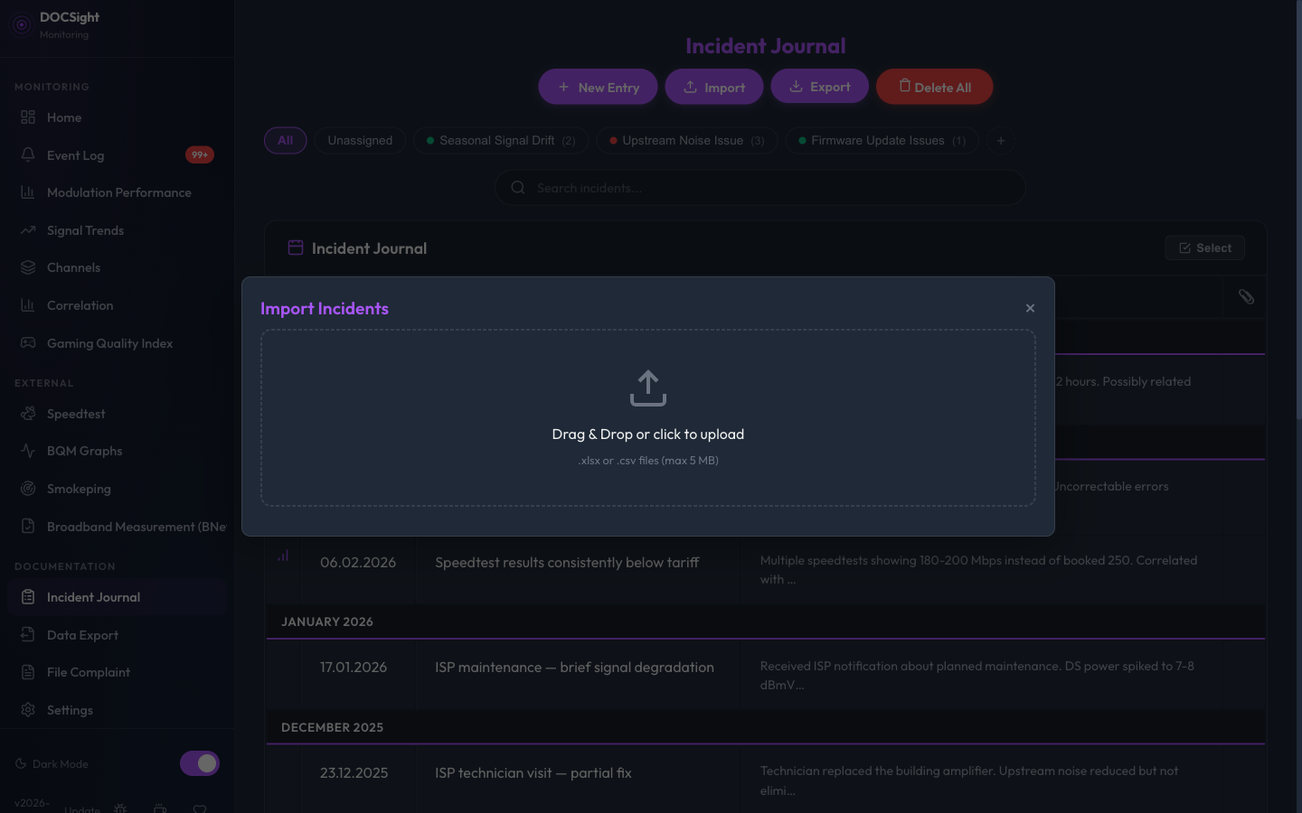
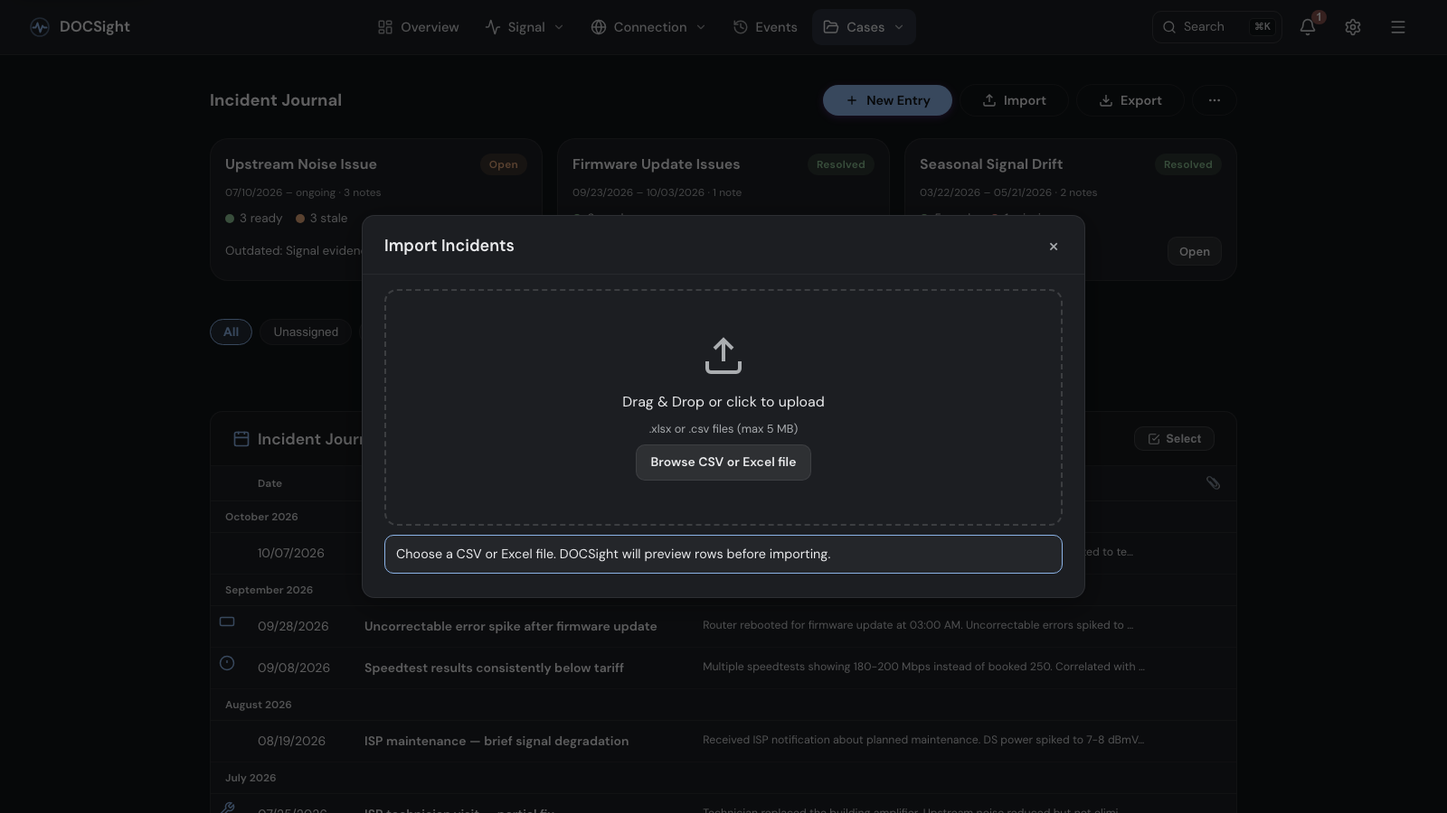
Refresh the README, screenshots and product page, and remove stale files

diff --git a/docs/index.html b/docs/index.html
@@ -67,7 +67,7 @@
       gap: 24px;
     }
     .brand { display: flex; align-items: center; gap: 12px; font-weight: 800; letter-spacing: -0.03em; text-decoration: none; }
-    .brand img { width: 38px; height: 38px; }
+    .brand svg { width: 38px; height: 38px; flex: none; }
     .nav-links { display: flex; flex-wrap: wrap; gap: 14px; align-items: center; justify-content: flex-end; color: var(--muted); font-size: 0.94rem; }
     .nav-links a { text-decoration: none; }
     .nav-links a:hover { color: var(--text); }
@@ -175,7 +175,7 @@
   <nav class="nav" aria-label="Main navigation">
     <div class="wrap nav-inner">
       <a class="brand" href="#top" aria-label="DOCSight home">
-        <img src="docsight-logo-v2.svg" alt="" aria-hidden="true">
+        <svg viewBox="0 0 24 24" width="38" height="38" fill="none" stroke="#7c3aed" stroke-linecap="round" stroke-linejoin="round" aria-hidden="true"><circle cx="12" cy="12" r="10" stroke-width="1.6" opacity="0.45"/><path d="M4.5 12.5h3l2-5 3 10 2.5-7 1.5 2h3" stroke-width="1.9"/></svg>
         <span>DOCSight</span>
       </a>
       <div class="nav-links">
@@ -219,7 +219,7 @@
             <li>Local data</li>
             <li>Demo mode</li>
             <li>Reports</li>
-            <li>22 modem families, including experimental PYUR FAST3896-15 support on the main branch with <a href="https://github.com/itsDNNS/docsight/issues/865">login, collection and one-day operation confirmed by the reporter</a></li>
+            <li>22 modem families, including experimental PYUR FAST3896-15 support with <a href="https://github.com/itsDNNS/docsight/issues/865">login, collection and one-day operation confirmed by the reporter</a></li>
             <li>MIT licensed</li>
           </ul>
           <div class="trust-promise" aria-label="Local-first trust promise">
@@ -231,9 +231,9 @@
         </div>
         <div class="hero-shot">
           <div class="screenshot-card">
-            <img src="screenshots/dashboard-hero.png" alt="DOCSight product dashboard with signal health, speed, latency and connection cards">
+            <img src="screenshots/dashboard-hero.png" alt="DOCSight Home with the line status per channel, key figures and the latest speed test">
           </div>
-          <p class="caption">Synthetic demo data in the sidebar layout of tagged releases up to v2026-09-16.1: signal health, speed, latency and connection context in one dashboard.</p>
+          <p class="caption">The real interface with synthetic demo data: line status, key figures and the latest events on one page.</p>
         </div>
       </div>
     </header>
@@ -276,19 +276,19 @@
             <div class="copy"><h3>Bring something useful to support</h3><p>Turn the timeline into a report, checklist and support-ready evidence package.</p></div>
           </article>
         </div>
-        <p class="caption">Screenshots show synthetic demo data in the sidebar layout of tagged releases up to v2026-09-16.1.</p>
+        <p class="caption">Screenshots show the real interface with synthetic demo data.</p>
       </div>
     </section>
 
     <section id="proof" aria-labelledby="proof-title">
       <div class="wrap proof">
         <div class="screenshot-card">
-          <img src="screenshots/bad-day-evidence.png" alt="Demo bad evening evidence timeline with degraded signal and event context">
+          <img src="screenshots/bad-day-evidence.png" alt="Correlation for a past day with an SNR drop, uncorrectable errors and a critical signal state">
         </div>
         <div class="proof-copy">
           <div class="eyebrow">Demo-safe proof pack</div>
           <h2 id="proof-title">See the output before you connect real hardware.</h2>
-          <p>The sample uses synthetic data. It shows what a bad evening can look like without exposing a real provider, IP address, MAC address, serial number or customer data.</p>
+          <p>The sample uses synthetic data. It shows what a bad day can look like without exposing a real provider, IP address, MAC address, serial number or customer data.</p>
           <ul class="proof-list">
             <li>Bad evening screenshot with signal, speed, packet loss, events and notes</li>
             <li>Germany-oriented sample complaint report PDF</li>

diff --git a/README.md b/README.md
@@ -1,262 +1,99 @@
 <p align="center">
-  <img src="docs/docsight-logo-v2.svg" alt="DOCSight" width="128">
+  <img src="app/static/logo.svg" alt="DOCSight" width="96">
 </p>
 
 <h1 align="center">DOCSight</h1>
 
 <p align="center">
+  <strong>Your ISP says everything is fine. DOCSight shows the timeline.</strong>
+</p>
+
+<p align="center">
+  Self-hosted monitoring for your internet connection. DOCSight keeps DOCSIS signal history, speed tests, latency, events and notes together, so you can find out what is wrong and prove it to your provider.
+</p>
+
+<p align="center">
+  <a href="#get-started">Get started</a>&nbsp;&nbsp;&bull;&nbsp;&nbsp;
   <a href="https://itsdnns.github.io/docsight/">Product page</a>&nbsp;&nbsp;&bull;&nbsp;&nbsp;
-  <a href="#get-started">Get Started</a>&nbsp;&nbsp;&bull;&nbsp;&nbsp;
-  <a href="https://github.com/itsDNNS/docsight/releases/latest">Windows Preview</a>&nbsp;&nbsp;&bull;&nbsp;&nbsp;
-  <a href="#supported-hardware">Supported Hardware</a>&nbsp;&nbsp;&bull;&nbsp;&nbsp;
   <a href="https://github.com/itsDNNS/docsight/wiki">Wiki</a>&nbsp;&nbsp;&bull;&nbsp;&nbsp;
-  <a href="DATA_CONTRACT.md">Data contract</a>&nbsp;&nbsp;&bull;&nbsp;&nbsp;
-  <a href="CODE_SIGNING.md">Code signing</a>&nbsp;&nbsp;&bull;&nbsp;&nbsp;
-  <a href="https://github.com/itsDNNS/docsight/releases">Releases</a>
+  <a href="#supported-hardware">Supported hardware</a>&nbsp;&nbsp;&bull;&nbsp;&nbsp;
+  <a href="https://github.com/itsDNNS/docsight/releases">Releases</a>&nbsp;&nbsp;&bull;&nbsp;&nbsp;
+  <a href="CODE_SIGNING.md">Code signing</a>
 </p>
 
 <p align="center">
   <a href="LICENSE"><img src="https://img.shields.io/github/license/itsDNNS/docsight" alt="License"></a>
-  <a href="https://github.com/itsDNNS/docsight/pkgs/container/docsight"><img src="https://img.shields.io/github/v/tag/itsDNNS/docsight?label=version" alt="Version"></a>
+  <a href="https://github.com/itsDNNS/docsight/releases/latest"><img src="https://img.shields.io/github/v/release/itsDNNS/docsight?label=release" alt="Latest release"></a>
   <a href="https://github.com/itsDNNS/docsight/stargazers"><img src="https://img.shields.io/github/stars/itsDNNS/docsight?style=flat" alt="Stars"></a>
-  <a href="https://github.com/itsDNNS/docsight/pkgs/container/docsight"><img src="https://ghcr-badge.egpl.dev/itsdnns/docsight/size" alt="Image Size"></a>
+  <a href="https://github.com/itsDNNS/docsight/pkgs/container/docsight"><img src="https://ghcr-badge.egpl.dev/itsdnns/docsight/size" alt="Image size"></a>
   <a href="https://selfh.st/weekly/2026-02-27/"><img src="https://img.shields.io/badge/selfh.st-Featured-blue" alt="Featured in selfh.st Weekly"></a>
 </p>
 
-<p align="center">
-  <strong>Local monitoring and diagnostic reports for your internet connection.</strong>
-</p>
+<picture>
+  <source media="(prefers-color-scheme: light)" srcset="docs/screenshots/dashboard-light.png">
+  <img src="docs/screenshots/dashboard-hero.png" alt="DOCSight Home with the line status per channel, key figures and the latest speed test" width="100%">
+</picture>
 
-<p align="center">
-  Keep DOCSIS signal history, speed tests, latency, events, and incident notes together to investigate intermittent problems and share reports with your ISP.
-</p>
+<p align="center"><sub>The real interface with synthetic demo data.</sub></p>
 
-<p align="center">
-  <strong>Self-hosted</strong> • <strong>Local data</strong> • <strong>MIT</strong>
-</p>
+## Get started
 
-<p align="center">
-  <img src="docs/screenshots/dashboard-hero.png" alt="DOCSight product dashboard with signal health, speed, latency and connection cards" width="100%" />
-</p>
-
-<p align="center">
-  <em>Synthetic demo data in the sidebar layout of tagged releases up to v2026-09-16.1: signal health, speed, latency, and connection context in one dashboard.</em>
-</p>
-
----
-
-## Get Started
-
-The commands below require a running Docker engine. For Windows setup, see the [Windows quick start](https://github.com/itsDNNS/docsight/wiki/Windows-Quick-Start). To try DOCSight without Docker, use the unsigned portable [Windows Desktop Preview](https://github.com/itsDNNS/docsight/wiki/Windows-Desktop-Preview); for a native Python installation, see [Running without Docker](https://github.com/itsDNNS/docsight/wiki/Running-without-Docker).
-
-The examples use the `stable` image tag, which follows the newest release. `latest` follows the `main` branch and can include unreleased changes; see [image tags](https://github.com/itsDNNS/docsight/wiki/Installation#image-tags-stable-or-latest).
-
-### Option 1: Try the demo
-
-No router required. Demo mode generates synthetic DOCSIS history so you can explore the app.
+Try the demo, no modem required:
 
 ```bash
 docker run -d --name docsight-demo -p 8765:8765 -e DEMO_MODE=true ghcr.io/itsdnns/docsight:stable
 ```
 
-### Option 2: Connect your own modem or router
+Connect your own modem or router:
 
 ```bash
 docker run -d --name docsight --restart unless-stopped -p 8765:8765 -v docsight_data:/data ghcr.io/itsdnns/docsight:stable
 ```
 
-Open `http://localhost:8765`. For your own connection, follow the setup wizard to select a [supported modem or Generic Router](#supported-hardware). Configuration and history are stored in the `docsight_data` volume.
+Open `http://localhost:8765` and follow the setup. It asks for your connection type, finds the modem on request and tests the connection. Configuration and history stay in the `docsight_data` volume. `stable` follows releases; `latest` follows the `main` branch.
 
-[Windows quick start](https://github.com/itsDNNS/docsight/wiki/Windows-Quick-Start) | [Full installation guide](https://github.com/itsDNNS/docsight/wiki/Installation) | [Example Compose Stacks](https://github.com/itsDNNS/docsight/wiki/Example-Compose-Stacks)
+[Installation guide](https://github.com/itsDNNS/docsight/wiki/Installation) · [Docker Compose](docker-compose.yml) · [Windows quick start](https://github.com/itsDNNS/docsight/wiki/Windows-Quick-Start) · [Windows Desktop Preview](https://github.com/itsDNNS/docsight/wiki/Windows-Desktop-Preview) · [Running without Docker](https://github.com/itsDNNS/docsight/wiki/Running-without-Docker)
 
----
+## Detect, understand, prove
 
-## Evidence journey
-
-A few key views from the workflow:
-
-| See what is happening now | Find the pattern |
+| Find the pattern | Connect the signals |
 |---|---|
-| ![DOCSight dashboard with current signal health, speed, and active issue cards](docs/screenshots/dashboard-dark.png) | ![DOCSight signal trends showing long-term signal patterns](docs/screenshots/trends.png) |
-| Current signal health, speed, latency, and active issues sit in one view. | Review signal changes over time. |
+| ![Signal Trends with target bands for power and SNR and uncorrectable errors per interval](docs/screenshots/trends.png) | ![Correlation with signal, errors, speed tests, segment load and reachability on one timeline](docs/screenshots/correlation.png) |
+| Signal history with target bands. Step back in time, or click a point to open the full snapshot. | Signal, errors, speed tests, segment load and reachability on one timeline. |
 
-| Connect the signals | Bring something useful to support |
+| Collect it in a case | Bring it to your provider |
 |---|---|
-| ![DOCSight correlation view lining up signal, speed, and event history](docs/screenshots/correlation.png) | ![DOCSight evidence package workflow for local report generation](docs/screenshots/complaint-workflow.png) |
-| Signal drops, packet loss, speed dips, modem events, and notes line up in one timeline. | Export a report for a selected incident or time window. |
-
-Screenshots show synthetic demo data in the sidebar layout of tagged releases up to v2026-09-16.1. The `main` branch has a redesigned Home and navigation; see the [Dashboard wiki page](https://github.com/itsDNNS/docsight/wiki/Features-Dashboard).
-
----
-
-## Public proof pack
-
-See the [sample complaint report PDF](docs/samples/demo-complaint-report.pdf) and the [proof pack](https://github.com/itsDNNS/docsight/wiki/Proof-Pack) for an example using synthetic data. Complaint templates and BNetzA workflows focus on Germany; reports do not guarantee an ISP or legal outcome.
-
----
-
-## Your Data Stays With You
-
-Monitoring history and generated reports stay on your own hardware. Optional integrations communicate with the services you configure. Review exports before sharing: they can contain connection details and incident notes.
-
-See the [Data contract](DATA_CONTRACT.md) for storage and sharing boundaries, and the [Security policy](SECURITY.md) for supported versions and vulnerability reporting.
-
----
+| ![Incident Journal with case cards and their evidence state](docs/screenshots/journal.png) | ![Evidence Journey checking which evidence exists for a time window](docs/screenshots/complaint-workflow.png) |
+| Cases gather events, notes and snapshots, and show which evidence is ready. | The Evidence Journey checks a window and builds the report, letter and PDF. |
 
 ## Features
 
-### Core Evidence Workflow
+- **Signal:** [Home with line status](https://github.com/itsDNNS/docsight/wiki/Features-Dashboard), [Signal Trends](https://github.com/itsDNNS/docsight/wiki/Features-Signal-Trends), [Channels and Channel Timeline](https://github.com/itsDNNS/docsight/wiki/Features-Channel-Timeline), [Modulation](https://github.com/itsDNNS/docsight/wiki/Features-Modulation-Performance), [Cable Segment Utilization](https://github.com/itsDNNS/docsight/wiki/Features-Segment-Utilization), [Correlation](https://github.com/itsDNNS/docsight/wiki/Features-Correlation-Analysis)
+- **Connection:** [Connection Monitor](https://github.com/itsDNNS/docsight/wiki/Features-Connection-Monitor) with outages and traceroutes, [Speedtest Tracker](https://github.com/itsDNNS/docsight/wiki/Features-Speedtest), [BQM](https://github.com/itsDNNS/docsight/wiki/Features-BQM), [Smokeping](https://github.com/itsDNNS/docsight/wiki/Features-Smokeping), [Gaming Quality](https://github.com/itsDNNS/docsight/wiki/Features-Gaming-Quality)
+- **Events and cases:** [Event Log](https://github.com/itsDNNS/docsight/wiki/Features-Event-Log), [Incident Journal and cases](https://github.com/itsDNNS/docsight/wiki/Features-Incident-Journal), [Evidence Journey](https://github.com/itsDNNS/docsight/wiki/Features-Evidence-Journey), [Before/After](https://github.com/itsDNNS/docsight/wiki/Features-Before-After-Comparison), [Smart Capture](https://github.com/itsDNNS/docsight/wiki/Features-Smart-Capture), [complaint letters](https://github.com/itsDNNS/docsight/wiki/Filing-a-Complaint), [BNetzA measurements](https://github.com/itsDNNS/docsight/wiki/Features-BNetzA) and [TKG compensation](https://github.com/itsDNNS/docsight/wiki/Features-TKG-Compensation) for Germany
+- **Platform:** [Home Assistant](https://github.com/itsDNNS/docsight/wiki/Home-Assistant), [notifications](https://github.com/itsDNNS/docsight/wiki/Notifications) including browser push, [backup and restore](https://github.com/itsDNNS/docsight/wiki/Backup-and-Restore), [themes](https://github.com/itsDNNS/docsight/wiki/Themes), [community modules](https://github.com/itsDNNS/docsight-modules), [AI export](https://github.com/itsDNNS/docsight/wiki/Features-LLM-Export) with local redaction, 24 languages, installable as an app
 
-| Feature | Why it matters |
-|---|---|
-| **[Live Dashboard](https://github.com/itsDNNS/docsight/wiki/Features-Dashboard)** | See current signal health, active issues, and actionable diagnostics at a glance |
-| **[Signal Trends](https://github.com/itsDNNS/docsight/wiki/Features-Signal-Trends)** | Turn intermittent instability into visible long-term patterns |
-| **[Connection Monitor](https://github.com/itsDNNS/docsight/wiki/Features-Connection-Monitor)** | Track latency, packet loss, outages, traceroute evidence, and raw ping logs continuously |
-| **[Event Log](https://github.com/itsDNNS/docsight/wiki/Features-Event-Log)** | Automatically record anomalies like modulation drops and modem restarts |
-| **[Incident Journal](https://github.com/itsDNNS/docsight/wiki/Features-Incident-Journal)** | Add notes, attachments, reviewed imports, and incident groupings |
-| **Evidence Journey** | Review an incident or custom time window, see ready/stale/missing evidence, and carry that exact fixed period into complaint and PDF generation |
-| **[DE · TKG compensation](https://github.com/itsDNNS/docsight/wiki/Features-TKG-Compensation)** | Check possible compensation for a complete outage or missed provider appointment, calculate a possible amount, and prepare an editable provider letter locally |
-| **[Before/After Comparison](https://github.com/itsDNNS/docsight/wiki/Features-Before-After-Comparison)** | Compare measurements before and after a technician visit or ISP change |
-| **[Correlation Analysis](https://github.com/itsDNNS/docsight/wiki/Features-Correlation-Analysis)** | Combine signal, speed, and event history in one timeline |
-| **[Complaint Generator](https://github.com/itsDNNS/docsight/wiki/Filing-a-Complaint)** | Build ISP-ready evidence packages with letter text, checklist, and PDF output |
+See the [sample complaint report](docs/samples/demo-complaint-report.pdf) and the [proof pack](https://github.com/itsDNNS/docsight/wiki/Proof-Pack) for an example with synthetic data.
 
-### Analysis, Integrations, and Power Features
+## Your data stays with you
 
-| Category | Includes |
-|---|---|
-| **Network analysis** | [Gaming Quality Index](https://github.com/itsDNNS/docsight/wiki/Features-Gaming-Quality), [Modulation Performance](https://github.com/itsDNNS/docsight/wiki/Features-Modulation-Performance), [Channel Timeline](https://github.com/itsDNNS/docsight/wiki/Features-Channel-Timeline), [Cable Segment Utilization](https://github.com/itsDNNS/docsight/wiki/Features-Segment-Utilization) |
-| **External data sources** | Guided setup for [Speedtest Integration](https://github.com/itsDNNS/docsight/wiki/Features-Speedtest), [BQM Integration](https://github.com/itsDNNS/docsight/wiki/Features-BQM), and [Smokeping Integration](https://github.com/itsDNNS/docsight/wiki/Features-Smokeping), plus [Smart Capture](https://github.com/itsDNNS/docsight/wiki/Features-Smart-Capture) and [BNetzA Measurements](https://github.com/itsDNNS/docsight/wiki/Features-BNetzA) |
-| **Platform features** | [Home Assistant](https://github.com/itsDNNS/docsight/wiki/Home-Assistant), [Notifications](https://github.com/itsDNNS/docsight/wiki/Notifications), [Backup & Restore](https://github.com/itsDNNS/docsight/wiki/Backup-and-Restore), setup wizard, optional authentication, API tokens |
-| **Usability and extensibility** | [Demo Mode](https://github.com/itsDNNS/docsight/wiki/Features-Demo-Mode), [Themes](https://github.com/itsDNNS/docsight/wiki/Themes), [Community Modules](https://github.com/itsDNNS/docsight-modules), [In-App Glossary](https://github.com/itsDNNS/docsight/wiki/Features-Glossary), [AI/LLM Export](https://github.com/itsDNNS/docsight/wiki/Features-LLM-Export) with local redaction controls |
+History and reports stay on your own hardware. Optional integrations only talk to the services you configure. Review exports before you share them: they can contain connection details and notes. See the [data contract](DATA_CONTRACT.md) and the [security policy](SECURITY.md).
 
-The core interface supports 24 languages, light/dark themes, and PWA/offline use.
+## Supported hardware
 
----
+DOCSight has drivers for **22 modem families**, among them AVM FRITZ!Box Cable, Vodafone Station (CGA4233, TG3442DE), Sercomm Ultra Hub 7, Connect Box (CH7465), Sagemcom F@st 3896 and F3896LG, [PYUR FAST3896-15](https://github.com/itsDNNS/docsight/wiki/Modem-PYUR-FAST3896-15) (experimental), Technicolor TC4400, Arris SURFboard, Hitron CODA and Netgear CM1000/CM3000. See [supported modems](https://github.com/itsDNNS/docsight/wiki/Supported-Modems) for the full list and setup notes.
 
-## Extended screenshot gallery
+Not on cable? **Generic Router mode** works with fiber, DSL and satellite: speed tests, latency monitoring, notes and reports, without DOCSIS signal data. Community drivers live in [docsight-modules](https://github.com/itsDNNS/docsight-modules); you can also [add your own modem](https://github.com/itsDNNS/docsight/wiki/Adding-Modem-Support).
 
-<details>
-<summary>See the extended screenshot gallery</summary>
+## Community and support
 
-These screenshots show synthetic demo data in the former sidebar layout.
+Ask questions in [GitHub Discussions](https://github.com/itsDNNS/docsight/discussions/categories/q-a), and see [SUPPORT.md](SUPPORT.md) for troubleshooting and bug reports. Contributions are welcome; please read [CONTRIBUTING.md](CONTRIBUTING.md) and open an issue or idea discussion before you start on a new feature.
 
-| Dashboard (Light) | Health Assessment |
-|---|---|
-| ![Light](docs/screenshots/dashboard-light.png) | ![Health](docs/screenshots/health-banner.png) |
+If DOCSight helps you, you can support its development through [GitHub Sponsors](https://github.com/sponsors/itsDNNS), [Ko-fi](https://ko-fi.com/itsdnns) or [PayPal](https://paypal.me/itsDNNS).
 
-| Speedtest Tracker | Import (Excel/CSV) |
-|---|---|
-| ![Speedtest](docs/screenshots/speedtest.png) | ![Import](docs/screenshots/import-modal.png) |
+## License and brand
 
-| Edit with Icon Picker | Channel Timeline |
-|---|---|
-| ![Edit](docs/screenshots/incident-edit.png) | ![Channel Timeline](docs/screenshots/channel-timeline.png) |
-
-| Event Log | Settings |
-|---|---|
-| ![Events](docs/screenshots/events.png) | ![Settings](docs/screenshots/settings.png) |
-
-| Theme Gallery | BQM Integration |
-|---|---|
-| ![Themes](docs/screenshots/themes.png) | ![BQM](docs/screenshots/bqm.png) |
-
-</details>
-
----
-
-## Supported Hardware
-
-DOCSight includes drivers for **22 modem families**, including the experimental PYUR FAST3896-15 driver with reported hardware success. The PYUR driver is on `main` and not yet part of a tagged release. DOCSIS signal monitoring requires a supported cable modem. **Generic Router mode** supports other connections, including fiber, DSL, and satellite, with speed tests, latency monitoring, notes, and reports but no DOCSIS signal data.
-
-Signal health and SC-QAM capacity estimates describe the physical/channel layer; they are not measurements of internet throughput or tariff speed.
-
-### Common setups
-
-- **CGA4233 / TG3442DE cable gateways:** bridge mode compatible
-- **AVM FRITZ!Box Cable** (6490, 6590, 6591, 6660, 6690)
-- **Sercomm Ultra Hub 7 class gateways**
-- **CH7465 Connect Box family**
-- **Sagemcom F@st 3896:** JSON-RPC API
-- **Sagemcom F3896LG** (Hub 5 / Liberty Global REST firmware): unauthenticated API, works in modem mode
-- **PYUR FAST3896-15** (`pyur_fast3896`): experimental `/api/v1` driver with reported login and collection success; see setup notes below
-- **Technicolor TC4400**
-- **Arris SURFboard** (S33, S34, SB8200): HNAP1 API
-- **Arris SURFboard SB8200** (CBN firmware, `SB8200v3`): XML API, for units that serve the CBN web UI instead of HNAP1
-- **Arris SB6183:** HTTP status pages, no authentication required
-- **Hitron CODA-56 and CODA-4680**
-- **Netgear CM3000**
-- **Netgear CM1000**
-
-[See the full compatibility and setup docs in the wiki →](https://github.com/itsDNNS/docsight/wiki)
-
-Community drivers and extensions live in [docsight-modules](https://github.com/itsDNNS/docsight-modules), and you can also [add your own modem support](https://github.com/itsDNNS/docsight/wiki/Adding-Modem-Support).
-
-### PYUR FAST3896-15 (experimental)
-
-Select **PYUR FAST3896-15 (experimental)** in setup/settings, use
-`http://192.168.100.1` (or your modem's configured address), and enter the modem
-UI password. The UI is password-only; the driver uses `admin` by default.
-This firmware uses `/api/v1`, unlike the Sagemcom XMO `/cgi/json-req` and
-Liberty Global `/rest/v1` drivers. Select the PYUR entry for this firmware.
-
-Support was developed using an examined capture from `FAST3896-15_PYUR-RDK_83.2.4`
-and automated tests. With image `sha-208d8b4`, the reporter confirmed
-[successful login and data collection](https://github.com/itsDNNS/docsight/issues/865#issuecomment-5740844992),
-followed by [nominal operation after one day](https://github.com/itsDNNS/docsight/issues/865#issuecomment-5750455023).
-
-Login uses a portable SHA512-crypt implementation checked against independent
-vectors. The captured frontend references an unavailable helper; the reported
-login provides hardware evidence for this implementation on the tested modem.
-Automated tests alone do not establish universal firmware compatibility.
-Reboot recovery, session expiry, channel accuracy and device uptime/firmware
-were not individually confirmed by the reporter.
-Upstream `QAM` has no known order; OFDM has no known profile modulation.
-Unavailable counters and connection rates remain unknown. Subscriber network
-parameters are not requested.
-
----
-
-## Community and Support
-
-For setup help, use [GitHub Discussions](https://github.com/itsDNNS/docsight/discussions/categories/q-a). See [SUPPORT.md](SUPPORT.md) for troubleshooting steps, the local doctor command, and where to report bugs or request modem support. Report vulnerabilities through the [Security policy](SECURITY.md).
-
-## Contributing
-
-See [CONTRIBUTING.md](CONTRIBUTING.md). **Please open an issue or start an Ideas discussion before working on new features.**
-
-## Support
-
-You can support development through:
-
-<a href="https://github.com/sponsors/itsDNNS"><img src="https://img.shields.io/badge/GitHub%20Sponsors-Support%20DOCSight-24292f?logo=github&logoColor=white" alt="GitHub Sponsors"></a>
-<a href="https://ko-fi.com/itsdnns"><img src="https://img.shields.io/badge/Ko--fi-Support%20DOCSight-ff5e5b?logo=ko-fi&logoColor=white" alt="Ko-fi"></a>
-<a href="https://paypal.me/itsDNNS"><img src="https://img.shields.io/badge/Donate-PayPal-00457C?logo=paypal&logoColor=white" alt="PayPal"></a>
-
-## Brand Use
-
-The code is MIT-licensed, but the `DOCSight` name, logo, and project branding are governed separately. Community forks and commercial services may say they are "based on DOCSight" or "compatible with DOCSight", but must not present themselves as the official project without permission.
-
-See [TRADEMARKS.md](TRADEMARKS.md) for the full brand and trademark policy.
-
-## Documentation
-
-| Document | Scope |
-|---|---|
-| [Wiki](https://github.com/itsDNNS/docsight/wiki) | User guides, feature docs, setup instructions |
-| [Data contract](DATA_CONTRACT.md) | Local storage, integrations, and export boundaries |
-| [Installation](https://github.com/itsDNNS/docsight/wiki/Installation) | Docker, image tags, Windows, native Python, and updates |
-| [Reverse proxy](https://github.com/itsDNNS/docsight/wiki/Reverse-Proxy) | HTTPS proxies and path prefixes such as `/docsight` |
-| [Notifications](https://github.com/itsDNNS/docsight/wiki/Notifications) | Webhooks, the optional Apprise sidecar, and PWA Web Push |
-| [Community proof templates](https://github.com/itsDNNS/docsight/wiki/Community-Proof-Templates) | Public-safe templates for setup stories, modem reports, and ISP evidence outcomes |
-| [GitHub Releases](https://github.com/itsDNNS/docsight/releases) | Versioned builds and release notes |
-| [SUPPORT.md](SUPPORT.md) | Support routing, community channels, and issue guidance |
-| [Architecture](https://github.com/itsDNNS/docsight/wiki/Architecture) | Technical architecture and extension guide |
-| [CONTRIBUTING.md](CONTRIBUTING.md) | Development and contribution guidelines |
-| [TRADEMARKS.md](TRADEMARKS.md) | Brand, logo, and official-use policy |
-
-## License
-
-[MIT](LICENSE)
+The code is [MIT-licensed](LICENSE). The DOCSight name and logo are covered by the [brand policy](TRADEMARKS.md): forks may say they are "based on DOCSight", but not present themselves as the official project.
 
 <p align="center">
   <sub><strong>DOCSight</strong> = <strong>DOCS</strong>IS + In<strong>sight</strong> (+ a quiet <em>sigh</em> from every cable internet user)</sub>

diff --git a/SECURITY.md b/SECURITY.md
@@ -2,14 +2,15 @@
 
 ## Supported Versions
 
-We release security updates for the following versions:
+Security fixes go into the `main` branch and ship with the next release. Releases are named by date (`vYYYY-MM-DD.N`).
 
 | Version | Supported          |
 | ------- | ------------------ |
-| v2.x (main) | :white_check_mark: |
-| v1.x (legacy) | :x: (no longer supported) |
+| Latest release (`stable` image tag) | :white_check_mark: |
+| `main` (`latest` image tag) | :white_check_mark: |
+| Older releases | :x: |
 
-**Recommendation:** Always use the latest release from the `main` branch for the newest features and security fixes.
+**Recommendation:** Use the `stable` image tag, which always points to the newest release, and update when a new release is published.
 
 ## Reporting a Vulnerability
 

diff --git a/CONTRIBUTING.md b/CONTRIBUTING.md
@@ -235,7 +235,6 @@ See the **[DOCSight Community Modules](https://github.com/itsDNNS/docsight-modul
 
 ## Adding Modem Support
 
-Community modem driver support is restored on main and in images built from this fix. The tagged v2026-09-16.1 release does not include this restoration.
 Use `type: driver` and `contributes.driver: driver.py:ClassName` with a concrete
 `ModemDriver` subclass. The manifest ID is the selection key. An exact built-in
 key explicitly overrides that driver in the application registry. The module
